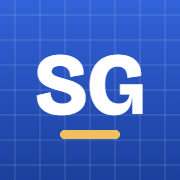
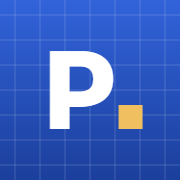
Rename the site to Proof
New name "Proof" with the tagline "Math & science practice" and a new
"P ∎" icon (the ∎ marks the end of a proof). Only the displayed name
changed; the web address, saved progress, backups and share codes are
unaffected.

Changed region(s): [[0.1944, 0.2778, 0.8056, 0.7778]]

diff --git a/index.html b/index.html
@@ -3,15 +3,15 @@
 <head>
 <meta charset="utf-8">
 <meta name="viewport" content="width=device-width, initial-scale=1, viewport-fit=cover">
-<title>Subject Study Guide</title>
+<title>Proof: math &amp; science practice</title>
 <meta name="apple-mobile-web-app-capable" content="yes">
 <meta name="mobile-web-app-capable" content="yes">
-<meta name="apple-mobile-web-app-title" content="Study Guide">
+<meta name="apple-mobile-web-app-title" content="Proof">
 <meta name="apple-mobile-web-app-status-bar-style" content="default">
 <meta name="theme-color" content="#f5f8fc" media="(prefers-color-scheme: light)">
 <meta name="theme-color" content="#0e1422" media="(prefers-color-scheme: dark)">
-<link rel="apple-touch-icon" sizes="180x180" href="apple-touch-icon.png?v=2">
-<link rel="icon" type="image/png" href="apple-touch-icon.png?v=2">
+<link rel="apple-touch-icon" sizes="180x180" href="apple-touch-icon.png?v=3">
+<link rel="icon" type="image/png" href="apple-touch-icon.png?v=3">
 <link rel="preconnect" href="https://fonts.googleapis.com">
 <link rel="preconnect" href="https://fonts.gstatic.com" crossorigin>
 <link rel="stylesheet" href="https://fonts.googleapis.com/css2?family=Atkinson+Hyperlegible:ital,wght@0,400;0,700;1,400&family=Bricolage+Grotesque:opsz,wght@12..96,600;12..96,800&family=JetBrains+Mono:wght@400;600&display=swap">
@@ -54,6 +54,7 @@ body{
 body::before{content:"";position:fixed;top:0;left:0;right:0;height:env(safe-area-inset-top,0px);background:var(--paper);z-index:6}
 .wrap{max-width:780px;margin:0 auto;display:flex;flex-direction:column;gap:18px}
 header h1{font-family:var(--display);font-weight:800;font-size:clamp(28px,6vw,40px);line-height:1.05;margin:0;letter-spacing:-.01em;text-wrap:balance}
+header .tagline{margin:4px 0 0;color:var(--muted);font-weight:700;font-size:15px}
 .nav{position:sticky;top:env(safe-area-inset-top,0px);z-index:5;display:grid;grid-template-columns:minmax(150px,230px) minmax(0,1fr) auto;grid-template-areas:"subj views who";align-items:center;gap:8px;background:var(--paper);padding-block:8px;margin-block:-8px}
 .nav .subjpick{grid-area:subj;max-width:none}.nav .views{grid-area:views}.whobox{grid-area:who;position:relative}
 @media (max-width:640px){.nav{grid-template-columns:minmax(0,1fr) auto;grid-template-areas:"subj who" "views views"}}
@@ -326,7 +327,8 @@ details.fold[open]{padding-bottom:20px}
 <body>
 <div class="wrap">
   <header>
-    <h1>Subject Study Guide</h1>
+    <h1>Proof</h1>
+    <p class="tagline">Math &amp; science practice</p>
   </header>
 
   <div class="nav">
@@ -385,7 +387,7 @@ details.fold[open]{padding-bottom:20px}
 <div class="sheet" id="fbsheet" role="dialog" aria-modal="true" aria-labelledby="fbtitle" hidden>
   <form class="card sheetcard" id="fbform" novalidate>
     <div class="row" style="flex-wrap:nowrap"><h2 id="fbtitle">Send feedback</h2><button class="xbtn" id="fbclose" type="button" aria-label="Close">✕</button></div>
-    <p class="note">Help improve the Subject Study Guide. Report an error, suggest a feature or ask a question, and your message will be reviewed by the site’s developer.</p>
+    <p class="note">Help improve Proof. Report an error, suggest a feature or ask a question, and your message will be reviewed by the site’s developer.</p>
     <label class="field">Category<select id="fbcat">
       <option value="">Select a category…</option>
       <option>Incorrect answer or solution</option>
@@ -2265,7 +2267,7 @@ function bkWhen(){const last=Store.data.lastBackup;if(!last)return 'No backup ye
   const days=Math.floor((Date.now()-last)/86400000);return `Last backup: ${days===0?'today':days===1?'yesterday':days+' days ago'}.${days>=7?' Consider saving a fresh one.':''}`}
 function bkMsg(m,cls){BK.msg=m;BK.cls=cls||'neutral';renderProgress()}
 function markBackup(){Store.data.lastBackup=Date.now();Store.changed()}
-async function saveBackupFile(){const o=backupObj(),txt=JSON.stringify(o),fn=`study-guide-${String(o.name||'progress').replace(/[^\w-]+/g,'-')}-${new Date().toISOString().slice(0,10)}.json`;
+async function saveBackupFile(){const o=backupObj(),txt=JSON.stringify(o),fn=`proof-backup-${String(o.name||'progress').replace(/[^\w-]+/g,'-')}-${new Date().toISOString().slice(0,10)}.json`;
   const inViewer=!!(window.claude&&typeof window.claude.use==='function');
   if(inViewer){let dl=null;try{dl=await window.claude.use('downloads')}catch(e){}
     if(!dl)return bkMsg('Saving files isn’t available in this view. Use Copy backup code instead.','neutral');
@@ -2278,7 +2280,7 @@ async function saveBackupFile(){const o=backupObj(),txt=JSON.stringify(o),fn=`st
 function copyBackup(){const code='SSG1:'+b64e(JSON.stringify(backupObj()));
   const fail=()=>{BK.code=code;markBackup();bkMsg('Copy didn’t work here. The code is below: select all of it and copy it yourself.','neutral');const t=$('bkcode');if(t){t.focus();t.select()}};
   try{navigator.clipboard.writeText(code).then(()=>{BK.code='';markBackup();bkMsg('Backup code copied. Paste it somewhere safe, like a note or a message to yourself.','good')},fail)}catch(e){fail()}}
-function loadBackupText(txt){const o=parseBackup(txt);if(!o)return bkMsg('That isn’t a Subject Study Guide backup. Check that you copied the whole code or picked the right file.','bad');BK.pending=o;BK.msg='';renderProgress()}
+function loadBackupText(txt){const o=parseBackup(txt);if(!o)return bkMsg('That isn’t a Proof backup. Check that you copied the whole code or picked the right file.','bad');BK.pending=o;BK.msg='';renderProgress()}
 function mergeInto(a,b){for(const k in b.topics){const x=a.topics[k],y=b.topics[k];if(!x){a.topics[k]=y;continue}x.c+=y.c;x.t+=y.t;x.r=[...(y.r||[]),...(x.r||[])].slice(-10);x.mn=(x.mn||0)+(y.mn||0);x.m=[...(y.m||[]),...(x.m||[])].slice(-10);x.last=Math.max(x.last||0,y.last||0)}
   const ids=new Set(a.tests.map(t=>t.id));b.tests.forEach(t=>{if(!ids.has(t.id))a.tests.push(t)});a.tests.sort((p,q)=>q.ts-p.ts);a.tests=a.tests.slice(0,60);
   const pid=new Set(a.presets.map(p=>p.id));b.presets.forEach(p=>{if(!pid.has(p.id))a.presets.push(p)});
@@ -2605,7 +2607,7 @@ $('cmgr').addEventListener('click',e=>{const b=e.target.closest('[data-cm]');if(
     case 'copycode':{const code=CM.packed;if(!code)return;
       copyText(code,()=>{CM.showCode=false;cmSay('Share code copied. Paste it in a message or email.','good');renderMgr()},()=>{CM.showCode=true;cmSay('Copy didn’t work here. Select all of the code below and copy it yourself.');renderMgr()});return}
     case 'sendcode':{const code=CM.packed,sub=findSub(id);if(!code||!navigator.share)return;
-      navigator.share({title:`${sub.name} (Subject Study Guide)`,text:`Here’s my “${sub.name}” subject for Subject Study Guide. Copy this whole message, then paste it in My subjects → Add a shared subject.\n\n${code}`}).catch(()=>{});return}
+      navigator.share({title:`${sub.name} (Proof)`,text:`Here’s my “${sub.name}” subject for Proof, the study app. Copy this whole message, then paste it in My subjects → Add a shared subject.\n\n${code}`}).catch(()=>{});return}
     case 'savefile':{const sub=findSub(id),ok=downloadFile(`subject-${sub.name.replace(/[^\w-]+/g,'-')}.json`,JSON.stringify({app:'subject-study-guide',type:'subject',v:1,subject:sub}));
       cmSay(ok?'Subject file saved. Send it to anyone, and they can add it with Choose a subject file.':'Saving a file didn’t work here. Use Copy share code instead.',ok?'good':'neutral');break}
     case 'del':CM.delId=CM.delId===id?null:id;CM.shareId=null;CM.msg='';break;
@@ -2678,7 +2680,7 @@ $('fbform').onsubmit=async e=>{e.preventDefault();
   if(!text){fbOut('Please add some details.','neutral');return $('fbtext').focus()}
   if(email&&!/^[^\s@]+@[^\s@]+\.[^\s@]+$/.test(email)){fbOut('That email doesn’t look right. Fix it or leave it blank.','neutral');return $('fbemail').focus()}
   btn.disabled=true;btn.textContent='Sending…';fbOut('');
-  const body={access_key:FEEDBACK_KEY,subject:`Study Guide feedback: ${cat}`,from_name:'Subject Study Guide',
+  const body={access_key:FEEDBACK_KEY,subject:`Proof feedback: ${cat}`,from_name:'Proof',
     message:`Category: ${cat}\n\n${text}`+($('fbctxon').checked?'\n\n---\n'+feedbackContext():'')};
   if(email)body.email=email;
   try{const r=await fetch('https://api.web3forms.com/submit',{method:'POST',headers:{'Content-Type':'application/json',Accept:'application/json'},body:JSON.stringify(body)});

diff --git a/app/App.js b/app/App.js
@@ -1,4 +1,4 @@
-// Subject Study Guide app: the live website inside a Material Design shell.
+// Proof app: the live website inside a Material Design shell.
 // Site updates reach the app automatically; only the native parts live here.
 import { useCallback, useEffect, useRef, useState } from 'react';
 import { BackHandler, Keyboard, Linking, Platform, Share, StyleSheet, View, useColorScheme } from 'react-native';
@@ -117,7 +117,7 @@ function Main({ dark }) {
         <View style={[styles.logo, { backgroundColor: theme.colors.primary }]}>
           <Icon source="school" size={22} color={theme.colors.onPrimary} />
         </View>
-        <Appbar.Content title="Study Guide" titleStyle={styles.title} />
+        <Appbar.Content title="Proof" titleStyle={styles.title} />
         <Appbar.Action icon="refresh" accessibilityLabel="Reload" onPress={() => web.current?.reload()} />
       </Appbar.Header>
 

diff --git a/app/bridge.js b/app/bridge.js
@@ -44,7 +44,7 @@ export const BRIDGE = `(function(){
     // Backups: WebViews can't download files or use the web clipboard,
     // so hand the data to the phone instead.
     var fname = function (o) {
-      return 'study-guide-' + String(o.name || 'progress').replace(/[^\\w-]+/g, '-') + '-' +
+      return 'proof-backup-' + String(o.name || 'progress').replace(/[^\\w-]+/g, '-') + '-' +
         new Date().toISOString().slice(0, 10) + '.json';
     };
     copyBackup = function () {

diff --git a/README.md b/README.md
@@ -1,6 +1,6 @@
-# Subject Study Guide
+# Proof
 
-A practice and study site for math, from Elementary through Pre-Calculus, and for Physics.
+A math and science practice and study site, from Elementary math through Pre-Calculus and Physics, plus subjects you make yourself.
 
 **Live site:** https://richardpappous.github.io/Subject-Study-Guide/
 
@@ -10,9 +10,10 @@ A practice and study site for math, from Elementary through Pre-Calculus, and fo
 - **Hints and worked steps** for every problem
 - **Tests:** quick knowledge checks, custom tests built from chosen topics, and timed tests you can resume
 - **Progress tracking:** mastery by topic, spaced review of missed problems, a daily goal and streak, and a session recap
-- **Terms and formulas** for each subject
+- **Terms and formulas** for each subject, with flip-card flashcards, a study mode and a flashcard test
+- **Your own subjects:** open-ended and multiple-choice questions, flashcards and pictures, shareable with a short code
 - **Multiple students** on one device, with backup and restore
-- Works on phones and has a dark mode
+- Works on phones (it can be added to the home screen like an app) and has a dark mode
 
 ## How it works
 The whole site is a single `index.html` file with no server and no sign-in. Progress is saved in your browser on your device.
